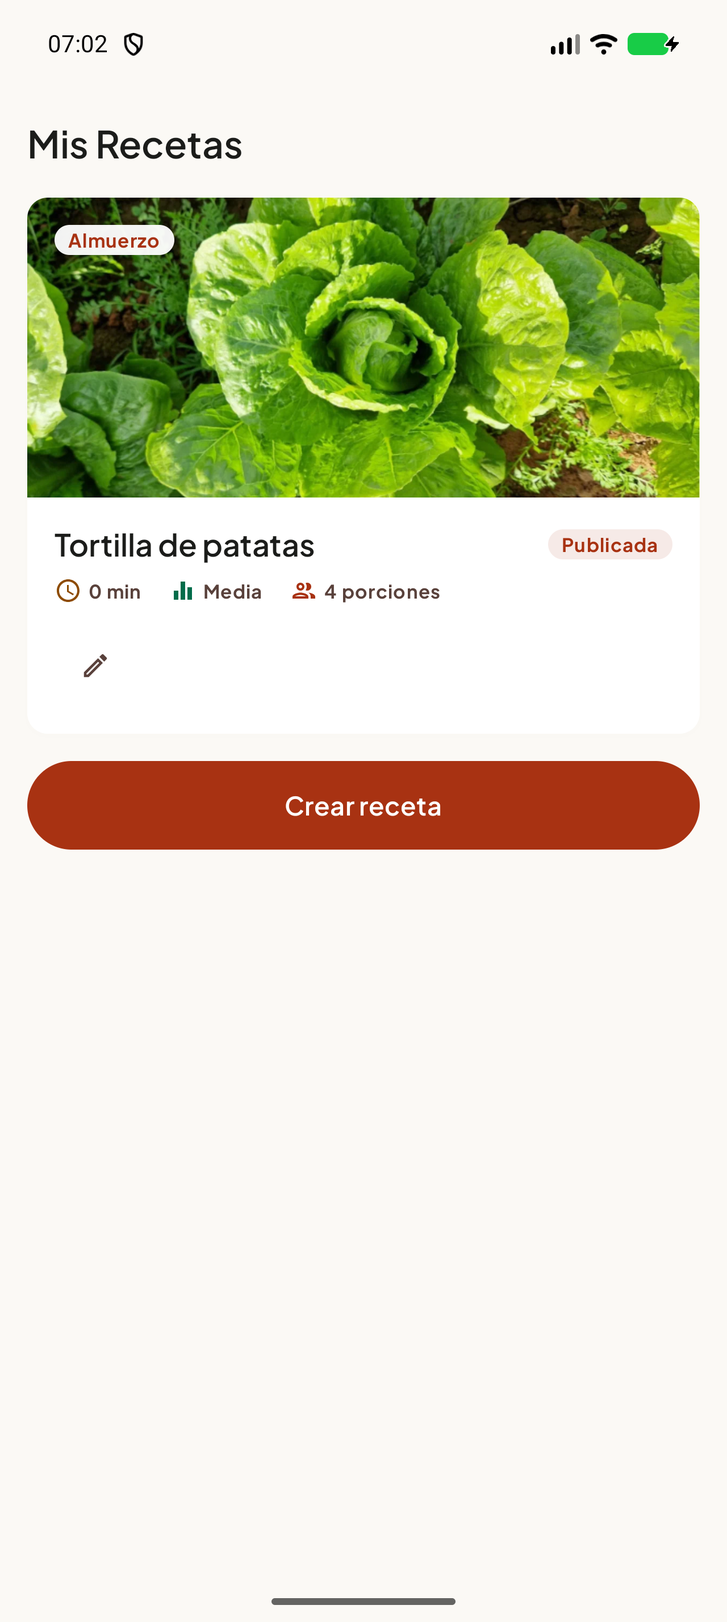
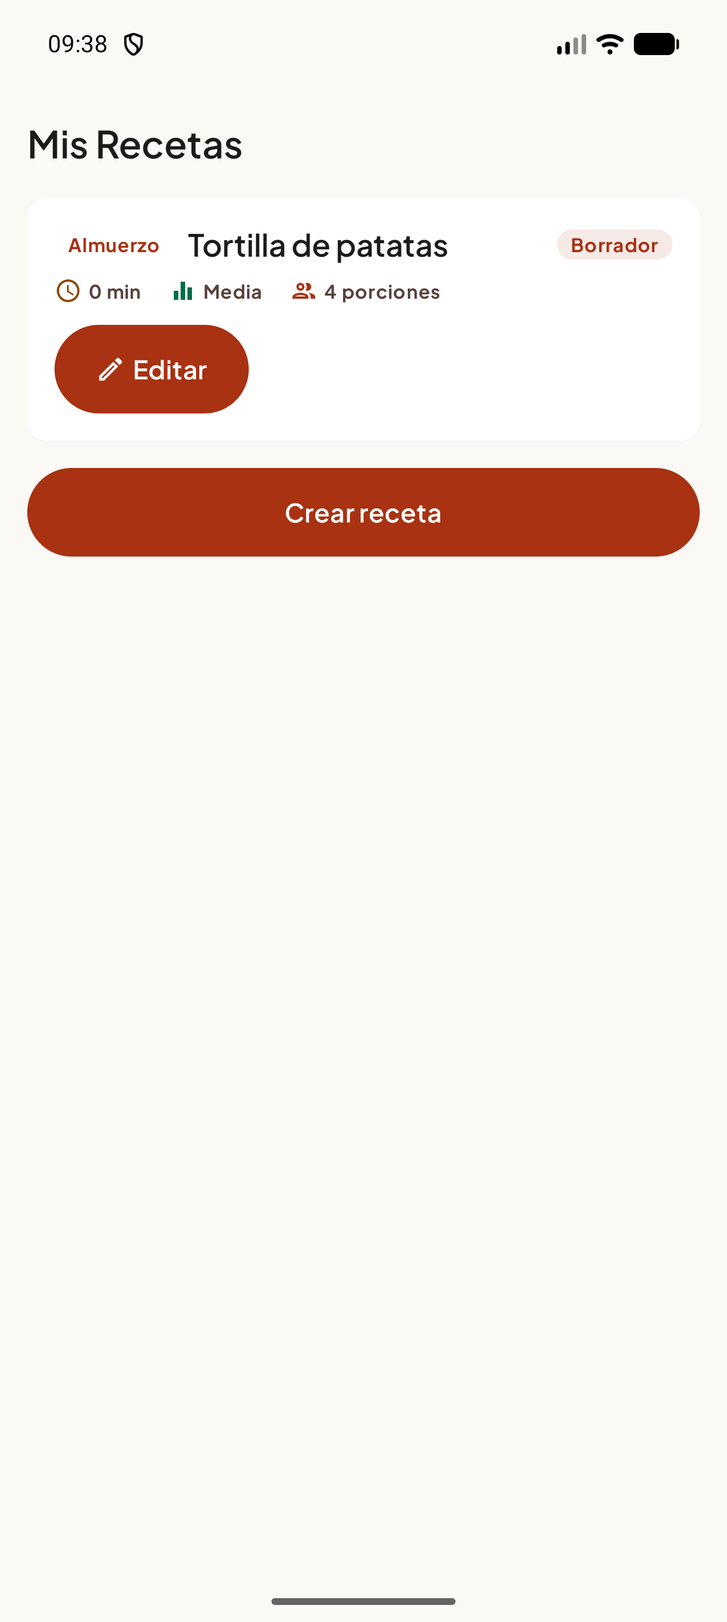
docs(editar-receta): excepcion de diseno del boton Editar (Q-editar-receta-6) y evidencia

diff --git a/docs/specs/editar-receta.md b/docs/specs/editar-receta.md
@@ -11,7 +11,7 @@ source: feature_list.json
 
 ## Contexto y objetivo
 
-Mis Recetas ya crea Recetas, pero una Receta guardada no se puede modificar: cualquier error obliga a borrarla y recrearla. Esta feature abre el formulario existente en modo edición, precargado con los datos de la Receta, y guarda los cambios sin perder su estado (Borrador o Publicada), según el ciclo de vida de `docs/domain-model.md`. El usuario pidió ajustarse visualmente a `uxdocs/`: el acceso es el icono «Editar receta» del pie de la tarjeta y la cabecera del formulario pasa a «Editar Receta», tal como los dibuja el prototipo.
+Mis Recetas ya crea Recetas, pero una Receta guardada no se puede modificar: cualquier error obliga a borrarla y recrearla. Esta feature abre el formulario existente en modo edición, precargado con los datos de la Receta, y guarda los cambios sin perder su estado (Borrador o Publicada), según el ciclo de vida de `docs/domain-model.md`. El usuario pidió ajustarse visualmente a `uxdocs/`: la cabecera del formulario pasa a «Editar Receta», tal como la dibuja el prototipo. Revisado el 2026-10-19: el acceso del pie de la tarjeta, que el prototipo dibuja como icono fantasma poco visible, pasa a botón primario destacado por excepción de diseño aprobada por el usuario (ver RF-4 y `## Clarificación`).
 
 ## Actores y permisos
 
@@ -28,7 +28,7 @@ para poder modificarla sin recrearla ni perder su estado.
 - RF-1: CUANDO el usuario pulsa «Editar receta» en la tarjeta de una Receta de Mis Recetas, EL SISTEMA abre el formulario de Receta en modo edición.
 - RF-2: EL SISTEMA precarga en el formulario el título, la historia, el momento culinario, los tiempos de preparación y cocción, la dificultad, las raciones base, las calorías, la foto, el favorito, los ingredientes y los pasos de la Receta editada.
 - RF-3: CUANDO el formulario abre en modo edición, EL SISTEMA titula la cabecera del alta «Editar Receta» con el distintivo de estado de la Receta (Borrador/Publicada), según `uxdocs/chefencasa_registrar_y_editar_receta/code.html` (cabecera) y el modal de edición de `uxdocs/chefencasa_mis_recetas_y_crud/code.html` (título).
-- RF-4: EL SISTEMA presenta «Editar receta» como un icono `edit` de 18 dp sobre un recuadro visual de 36 dp y un área táctil ≥ 48×48 dp, en el pie de acciones de la tarjeta según `uxdocs/chefencasa_mis_recetas_y_crud/code.html`.
+- RF-4: EL SISTEMA presenta «Editar receta» en el pie de acciones de la tarjeta como un botón primario relleno y compacto (fondo primario, icono `edit` de 18 dp y etiqueta visible «Editar»), de ancho al contenido, con altura ≥ 52 dp y área táctil ≥ 48×48 dp, y con nombre accesible «Editar receta». **Excepción de diseño aprobada por el usuario el 2026-10-19**: el control se destaca frente al icono fantasma `w-9 h-9` de `uxdocs/chefencasa_mis_recetas_y_crud/code.html` para que la acción se vea en el dispositivo (el prototipo es orientativo, `P16`; ver `## Clarificación` y `Q-editar-receta-6`).
 - RF-5: MIENTRAS se edita una Receta en estado Publicada, EL SISTEMA muestra en el dock una única acción primaria «Guardar cambios».
 - RF-6: CUANDO el usuario pulsa «Guardar cambios» sobre una Receta Publicada que cumple los requisitos de Publicar, EL SISTEMA guarda los cambios manteniendo el estado Publicada.
 - RF-7: MIENTRAS una Receta Publicada en edición no cumple los requisitos de Publicar (`⚠ S07`), EL SISTEMA mantiene «Guardar cambios» deshabilitado.
@@ -46,10 +46,10 @@ para poder modificarla sin recrearla ni perder su estado.
 
 ## Requisitos no funcionales
 
-- NFR-1: Interfaz en español e inglés vía `strings.xml` (`P19`); los textos de edición («Editar Receta», «Editar receta», «Guardar cambios») se afirman en ambas lenguas.
-- NFR-2: Objetivos táctiles ≥ 48×48 dp y contraste WCAG 2.1 AA; el botón primario del dock mide ≥ 52 dp de alto (`DESIGN.md`).
+- NFR-1: Interfaz en español e inglés vía `strings.xml` (`P19`); los textos de edición («Editar Receta», «Editar receta», «Editar», «Guardar cambios») se afirman en ambas lenguas.
+- NFR-2: Objetivos táctiles ≥ 48×48 dp y contraste WCAG 2.1 AA; los botones primarios —el del dock y el de «Editar receta» de la tarjeta (RF-4)— miden ≥ 52 dp de alto (`DESIGN.md`).
 - NFR-3: Android 11 (API 30) o superior, solo móvil (`P20`); el dato vive en el dispositivo (`P33`).
-- NFR-4: Los estados de edición reproducen el prototipo 1:1 (bloques, textos, iconos, controles y roles de token) por muestreo de píxeles en emulador API 30+, excluidos los controles de «Fuera de alcance»; si el prototipo contradice `DESIGN.md`, prima `DESIGN.md` en interacción y accesibilidad y el prototipo en apariencia.
+- NFR-4: Los estados de edición reproducen el prototipo 1:1 (bloques, textos, iconos, controles y roles de token) por muestreo de píxeles en emulador API 30+, excluidos los controles de «Fuera de alcance» y el botón «Editar receta» del pie de la tarjeta (excepción de diseño aprobada por el usuario, RF-4), que se verifica por rol de token y tamaño; si el prototipo contradice `DESIGN.md`, prima `DESIGN.md` en interacción y accesibilidad y el prototipo en apariencia.
 
 ## Casos límite
 
@@ -79,7 +79,7 @@ para poder modificarla sin recrearla ni perder su estado.
 | RF | Origen | Verificación | Evidencia |
 |---|---|---|---|
 | RF-1, RF-2 | `steps`: precargar el formulario | verify 1 + escenario E2E de precarga | informe E2E |
-| RF-3, RF-4 | uxdocs: cabecera y pie de la tarjeta | verify UI + uiautomator: cabecera e icono | captura |
+| RF-3, RF-4 | uxdocs: cabecera y pie de la tarjeta (RF-4 con la excepción de diseño aprobada por el usuario) | verify UI + uiautomator: cabecera y botón «Editar» | captura |
 | RF-5, RF-9, RF-11 | Q-editar-receta-1, Q-editar-receta-2 | escenario E2E: dock según estado y publicar desde edición | informe E2E |
 | RF-6, RF-10 | `steps`: guardar manteniendo estado | verify 1 (título nuevo en Mis Recetas) | informe E2E + captura |
 | RF-7, RF-8, RF-12 | Q-editar-receta-3 + `⚠ S07` | escenario E2E: deshabilitado y lista junto al dock | informe E2E |
@@ -119,7 +119,7 @@ para poder modificarla sin recrearla ni perder su estado.
 - **Navegación**: `AppRoutes.CREAR_RECETA` pasa a `"crear_receta?recipeId={recipeId}"` y Mis Recetas navega con el id de la tarjeta; al guardar, `popBackStack` y `observeRecipes` refrescan la lista (RF-1, RF-17).
 - **Dock por estado**: `ActionDock` se rama por el estado de la Receta editada — Publicada → único «Guardar cambios» habilitado solo si `canPublish`, con `PublishErrors` junto al dock (RF-5 a RF-8); Borrador → dock del alta con sus mismas reglas (RF-9 a RF-12). `FormHeader` no dibuja «Guardar» en ningún modo: el dock es el único guardado (RF-13, RF-14).
 - **Guardado**: la acción de guardado persiste con el estado original (RF-6, RF-10); «Publicar Receta» solo ejecuta la transición Borrador → Publicada (RF-11) y nada persiste si se cierra sin guardar (RF-15).
-- **Tarjeta y copy**: `RecipeCard` añade el pie del prototipo solo con «Editar receta» (icono `Icons.Outlined.Edit` de 18 dp sobre recuadro visual de 36 dp, `onSurfaceVariant`, área táctil ≥ 48 dp por NFR-2) en la posición izquierda y `RecipeList` recibe `onEditRecipe(id)` (RF-1, RF-4); «Eliminar» y «Cocinar Ahora» no se dibujan (Q-editar-receta-4). Textos de edición en `strings.xml` es/en (NFR-1).
+- **Tarjeta y copy**: `RecipeCard` añade el pie del prototipo solo con «Editar receta», en la posición izquierda y como botón primario compacto —`Button` de Material 3 con el color primario, icono `Icons.Outlined.Edit` de 18 dp + etiqueta visible «Editar», altura ≥ 52 dp por NFR-2 y nombre accesible «Editar receta»— por la excepción de diseño aprobada por el usuario (RF-4, Q-editar-receta-6); `RecipeList` recibe `onEditRecipe(id)` (RF-1, RF-4); «Eliminar» y «Cocinar Ahora» no se dibujan (Q-editar-receta-4). Textos de edición en `strings.xml` es/en (NFR-1).
 
 ## Archivos esperados
 
@@ -131,7 +131,7 @@ para poder modificarla sin recrearla ni perder su estado.
 ## Impacto visual
 
 - Fuente de diseño: `DESIGN.md` y los prototipos `uxdocs/chefencasa_registrar_y_editar_receta/code.html` (formulario, cabecera y dock) y `uxdocs/chefencasa_mis_recetas_y_crud/code.html` (pie de acciones y modal «Editar Receta»); pantallas y estados afectados: Formulario de Receta en modo edición (cabecera y dock según estado) y Mis Recetas (pie de acciones de la tarjeta).
-- Fidelidad visual (NFR-4): 1:1 con el prototipo por muestreo de píxeles (bloques, textos, iconos, controles y roles de token) en emulador API 30+, acotado a los bloques implementados (excluidos «Eliminar receta» y «Cocinar Ahora», en «Fuera de alcance»); el resto del formulario hereda sin cambios los RF de `afinar-fidelidad-visual-del-formulario`. No hace falta artefacto de diseño nuevo: los prototipos cubren ambos elementos.
+- Fidelidad visual (NFR-4): 1:1 con el prototipo por muestreo de píxeles (bloques, textos, iconos, controles y roles de token) en emulador API 30+, acotado a los bloques implementados (excluidos «Eliminar receta» y «Cocinar Ahora», en «Fuera de alcance», y el botón «Editar receta» del pie de la tarjeta, excepción de diseño aprobada por el usuario que se verifica por rol de token y tamaño); el resto del formulario hereda sin cambios los RF de `afinar-fidelidad-visual-del-formulario`. No hace falta artefacto de diseño nuevo: los prototipos cubren ambos elementos.
 
 ## Impacto en documentación duradera
 
@@ -146,13 +146,14 @@ para poder modificarla sin recrearla ni perder su estado.
 - [x] T5: cabecera «Editar Receta» con distintivo de estado y textos es/en. (cubre RF-3, NFR-1)
 - [x] T6: cierre sin guardar. (cubre RF-15)
 - [x] T7: tests E2E de edición y regresión de `crear-receta`. (cubre el plan de verificación)
+- [x] T8: botón primario compacto «Editar» en el pie de la tarjeta (excepción de diseño aprobada por el usuario), textos es/en y aserciones E2E. (cubre RF-4, NFR-1, NFR-2)
 
 ## Plan de verificación
 
 - `./lint.sh` y `./unit.sh` → exit 0; unit: requisitos de Publicar en modo edición (RF-7, RF-8, RF-12) y conservación de estado y origen (RF-6, RF-10, RF-16).
 - E2E verify 1: editar el título de una receta publicada y comprobar que Mis Recetas muestra el nuevo título (RF-6, RF-17).
-- E2E propios: precarga (RF-2), cabecera e icono (RF-3, RF-4), dock según estado (RF-5, RF-9), deshabilitado y lista en Publicada incompleta (RF-7, RF-8), guardar borrador manteniendo estado (RF-10), publicar desde edición (RF-11, RF-12), ausencia de «Guardar» de cabecera y guardado desde el dock en ambos estados (RF-13, RF-14), cierre sin guardar (RF-15), id inexistente (RF-18) y localización es/en de los textos de edición (NFR-1).
-- UI *(solo el validador)*: 2 capturas en emulador API 30+ (formulario en modo edición y tarjeta con el pie de acciones) comparadas por muestreo de píxeles acotado a los bloques implementados (NFR-4) con los prototipos y `DESIGN.md`, y medición por uiautomator (informa en px, convertidos a dp según la densidad del emulador) de área táctil ≥ 48 dp y botón del dock ≥ 52 dp (NFR-2). Regresión: `./e2e.sh` deja en verde `crear-receta` y `afinar-fidelidad-visual-del-formulario`; no se tocan `init`/`lint`/`unit`/`e2e`.
+- E2E propios: precarga (RF-2), cabecera y botón «Editar» (RF-3, RF-4), dock según estado (RF-5, RF-9), deshabilitado y lista en Publicada incompleta (RF-7, RF-8), guardar borrador manteniendo estado (RF-10), publicar desde edición (RF-11, RF-12), ausencia de «Guardar» de cabecera y guardado desde el dock en ambos estados (RF-13, RF-14), cierre sin guardar (RF-15), id inexistente (RF-18) y localización es/en de los textos de edición (NFR-1).
+- UI *(solo el validador)*: 2 capturas en emulador API 30+ (formulario en modo edición y tarjeta con el pie de acciones) comparadas por muestreo de píxeles acotado a los bloques implementados (NFR-4) con los prototipos y `DESIGN.md`, y medición por uiautomator (informa en px, convertidos a dp según la densidad del emulador) de área táctil ≥ 48 dp y de los botones primarios —dock y «Editar receta» de la tarjeta (≥ 52 dp)— (NFR-2); el botón «Editar receta» se compara por rol de token primario, no por 1:1 (RF-4). Regresión: `./e2e.sh` deja en verde `crear-receta` y `afinar-fidelidad-visual-del-formulario`; no se tocan `init`/`lint`/`unit`/`e2e`.
 
 ## Evidencia a capturar
 
@@ -210,3 +211,13 @@ Continuar: la spec queda `ready` y puede pasar a implementación; los menores 9 
 
 ### Siguiente acción
 Implementar el ajuste y re-ejecutar la validación de la feature.
+
+## Clarificación — 2026-10-19 — cambio de alcance: excepción de diseño aprobada por el usuario
+
+### Hallazgos
+
+1. [excepción de diseño, resuelta] El icono fantasma del pie de la tarjeta (`w-9 h-9`, tinta `on-surface-variant`, sin etiqueta) apenas se ve en el dispositivo; el usuario pide destacar la acción como un botón primario compacto con el lápiz y la etiqueta «Editar», al estilo de «Crear receta». Se aprueba como **excepción consciente** a la fidelidad 1:1 con `uxdocs/chefencasa_mis_recetas_y_crud/code.html` (orientativo, `P16`; mandan los tokens de `DESIGN.md`): ver RF-4, NFR-2, NFR-4, §Enfoque técnico «Tarjeta y copy», §Impacto visual, §Plan de verificación y `Q-editar-receta-6`. Alcance acotado a la apariencia del acceso de edición, sin cambios de flujo ni de requisitos funcionales; no requiere auditoría independiente por ser una decisión explícita del usuario.
+
+### Siguiente acción
+
+Implementar el ajuste (botón primario compacto con etiqueta «Editar»/«Edit» y nombre accesible «Editar receta»/«Edit recipe») y re-ejecutar la validación de la feature.

diff --git a/docs/evidence/editar-receta/informe-validacion.md b/docs/evidence/editar-receta/informe-validacion.md
@@ -1,6 +1,6 @@
 # Informe de validación — `editar-receta`
 
-- **Fecha**: 2026-10-19 · **Modo**: completa (ciclo 1) + ciclo 2 tras la retirada de «Guardar» de la cabecera.
+- **Fecha**: 2026-10-19 · **Modo**: completa (ciclo 1) + ciclo 2 tras la retirada de «Guardar» de la cabecera + ciclo 3 tras destacar el botón «Editar» (excepción de diseño, Q-editar-receta-6).
 - **Entorno real**: emulador Android `Pixel_10_Pro` (**API 37.1**, densidad 480 → 3 px/dp), locale de sistema `en-US`; app en `es-ES` por locale de aplicación (`cmd locale set-app-locales`, revertido al terminar). AVD válido (≥ API 30).
 - **APK validado**: `app/build/outputs/apk/debug/app-debug.apk` (`com.whatsforlunch.app`, `installDebug` exit 0).
 
@@ -13,7 +13,7 @@
 | `unit.ps1` (`testDebugUnitTest`) | **exit 0** | **10 tests, 0 fallos** (`RecipeValidationTest` 8 + `MisRecetasStateTest` 2) |
 | `e2e.ps1` (`connectedDebugAndroidTest`) | **exit 0** | **45 tests, 0 fallos, 0 saltados** en `Pixel_10_Pro(AVD) - 17` (3 m 34 s) |
 
-Notas de entorno (no son fallos del producto): `init.ps1` requiere `ANDROID_HOME` en este worktree porque `local.properties` trae el `sdk.dir` escapado (`C\:\\…`) y el script lo lee sin desescapar; además, mezclar stderr (`2>&1`) al invocarlo bajo PowerShell 5.1 hace que su `ErrorActionPreference=Stop` aborte en la salida de `adb shell monkey`. Ejecutado como manda el arnés (sin fusión de flujos) devuelve exit 0.
+Notas de entorno (no son fallos del producto): en el ciclo 3 se corrigió `local.properties` (`sdk.dir` sin escapar, que rompía el `Join-Path` de `init.ps1`) y el arranque pasa con `adb` en el PATH, sin `ANDROID_HOME`; no se deben fusionar los flujos al invocar el arnés bajo PowerShell 5.1.
 
 ### Regresión (misma suite instrumentada)
 
@@ -34,7 +34,7 @@ Recorrido manual con `adb` + `uiautomator` sobre el APK real, además de la suit
 | RF-1 | pulsar «Editar receta» abre el formulario en modo edición | **pasa** | manual: tap (168,1172) → cabecera «Editar Receta»; `EditarRecetaAppE2ETest` |
 | RF-2 | precarga de todos los campos, foto, favorito, ingredientes y pasos | **pasa** | manual: «Tortilla de patatas» + «Quitar foto» + «Patata/700» + «Pochar la cebolla»; `editingPreloadsRecipeFieldsAndPublishedDock` (título, historia, momento, tiempos, dificultad, raciones, calorías, foto, filas y favorito) |
 | RF-3 | cabecera «Editar Receta» + distintivo de estado | **pasa** | manual: «Editar Receta» + píldora «Publicada» (y «Editar Recipe»/«Published» en inglés) |
-| RF-4 | icono `edit` 18 dp sobre recuadro 36 dp con área ≥ 48 dp | **pasa** | `uiautomator`: nodo `Editar receta` = `[96,1100][240,1244]` → **144×144 px = 48×48 dp**; tinta del icono 40×40 px centrada (glifo 18 dp) y color `#59413B` |
+| RF-4 | botón primario compacto «Editar» (lápiz 18 dp + etiqueta) ≥ 52 dp | **pasa** | `uiautomator`: nodo `Editar receta` = `[96,572][438,728]` → **342×156 px = 114×52 dp**; relleno `#A83212`, etiqueta «Editar» en `#FFFFFF` y lápiz en tinta blanca; es/en «Editar»/«Edit»; `cardEditActionRequestsEditingWithRecipeId`, `cardEditActionIsLocalizedInEnglish`; ciclo 3 (excepción de diseño, Q-editar-receta-6) |
 | RF-5 | dock de Publicada = única acción «Guardar cambios» | **pasa** | manual + `editingPreloadsRecipeFieldsAndPublishedDock` (no existen `SAVE_DRAFT` ni `PUBLISH`) |
 | RF-6 | guardar cambios mantiene Publicada | **pasa** | manual: título editado → tarjeta «…/Publicada»; `saveChangesKeepsPublishedStatusAndOrigin` |
 | RF-7 | «Guardar cambios» deshabilitado si no cumple requisitos | **pasa** | manual: sin título → nodo dock `enabled=false`; `publishedEditingWithoutRequirementsBlocksSavingChanges` |
@@ -54,8 +54,8 @@ Recorrido manual con `adb` + `uiautomator` sobre el APK real, además de la suit
 
 | NFR | Comprobación | Resultado |
 |---|---|---|
-| NFR-1 | textos de edición en es/en | **pasa**: «Editar Receta»/«Edit Recipe», «Editar receta»/«Edit recipe», «Guardar cambios»/«Save changes» comprobados en el emulador en ambos idiomas; 82/82 claves en `values/` y `values-en/`; `editTextsAreLocalizedInEnglish`, `cardEditActionIsLocalizedInEnglish` |
-| NFR-2 | objetivos ≥ 48 dp y contraste AA | **pasa**: icono «Editar receta» 48×48 dp y botón de dock 156 px = **52 dp** (≥ 52 dp); botón primario `#A83212` con texto blanco → contraste ≈ 6,7:1 (AA) |
+| NFR-1 | textos de edición en es/en | **pasa**: «Editar Receta»/«Edit Recipe», «Editar receta»/«Edit recipe», «Editar»/«Edit», «Guardar cambios»/«Save changes» comprobados en el emulador en ambos idiomas (ciclo 3: «Edit»/«Edit recipe» con la app en `en-US`); 82/82 claves en `values/` y `values-en/`; `editTextsAreLocalizedInEnglish`, `cardEditActionIsLocalizedInEnglish` |
+| NFR-2 | objetivos ≥ 48 dp y contraste AA | **pasa**: botón «Editar receta» de la tarjeta **342×156 px = 114×52 dp** y botón del dock = **52 dp** (≥ 52 dp); botón primario `#A83212` con texto blanco (`#FFFFFF`, muestreado) → contraste ≈ 6,7:1 (AA) |
 | NFR-3 | API 30+ | **pasa**: ejecutado en API 37.1 (y la suite corre en el mismo AVD) |
 | NFR-4 | fidelidad 1:1 por muestreo de píxeles | **pasa**: ver §3 |
 
@@ -67,9 +67,7 @@ Prototipos: `uxdocs/chefencasa_mis_recetas_y_crud/code.html` (pie de la tarjeta)
 |---|---|---|---|
 | `article.recipe-card` | fondo `bg-surface-container-lowest` | `#FFFFFF` en (640,950) | igual |
 | `body.bg-surface` | fondo de pantalla | `#FBF9F5` en (640,1330) | igual |
-| `button[aria-label="Editar receta"]` `w-9 h-9 rounded-lg` | recuadro 36 px + área táctil ≥ 48 px (`NFR-2`) | nodo 144×144 px = **48×48 dp** (recuadro 36 dp en el código), clickable `[96,1100][240,1244]` | igual (RF-4 declara la precedencia `DESIGN.md`) |
-| `span.material-symbols-outlined.text-\[18px\]` `edit` | icono `edit` 18 px centrado | icono `Icons.Outlined.Edit` a 18 dp; tinta 40×40 px centrada en el recuadro | igual |
-| `text-on-surface-variant` | color del icono | `#59413B` (muestreado sobre la tinta) | igual |
+| `button[aria-label="Editar receta"]` `w-9 h-9 rounded-lg` (icono fantasma `text-on-surface-variant`) | acción destacada del pie de la tarjeta | botón primario compacto: relleno `#A83212`, etiqueta «Editar» en `#FFFFFF` y lápiz en tinta blanca; nodo **342×156 px = 114×52 dp** | **desviación declarada** (excepción de diseño aprobada por el usuario, RF-4/Q-editar-receta-6; verificado por rol de token y tamaño) |
 | `span` píldora de estado (`bg-primary/10 text-primary rounded-full`) | fondo primary @10 % + texto primary | píldora «Publicada» `#F2E5DE` sobre `#FBF9F5` (= primary 10 % exacto) y `#F6EAE7` sobre blanco | igual |
 | `div.sticky.bottom-4.bg-surface-container-lowest/95` (dock) | superficie del dock | `#FFFFFF` en (640,2640) | igual |
 | dock Publicada (extensión declarada en RF-5) | acción primaria `bg-primary text-on-primary` ≥ 52 px | «Guardar cambios» `#A83212`, alto 156 px = **52 dp** | igual (extensión declarada) |
@@ -77,7 +75,7 @@ Prototipos: `uxdocs/chefencasa_mis_recetas_y_crud/code.html` (pie de la tarjeta)
 | botón «Guardar» (cabecera) | primario habilitado / deshabilitado distinguible | **no se dibuja** (Q-editar-receta-5): el prototipo lo muestra, desviación declarada y aceptada por el usuario | desviación declarada |
 | «Guardar cambios» deshabilitado (`RF-7`) | estado deshabilitado visible y distinguible | `#E4E2DE` (`surface-container-highest`) frente a `#A83212` habilitado | igual |
 
-Atributos comparados: **11**. Desviaciones declaradas aceptadas: 4 (área táctil 48 dp frente a los 36 px del prototipo —RF-4/NFR-2; dock de Publicada con «Guardar cambios» —RF-5; título «Editar Receta» —RF-3, tomado del modal del prototipo de Mis Recetas; botón «Guardar» de la cabecera omitido —Q-editar-receta-5). «Eliminar receta» y «Cocinar Ahora» quedan excluidos del muestreo por «Fuera de alcance» (Q-editar-receta-4). **Divergencias abiertas: 0.**
+Atributos comparados: **9** (el control «Editar receta» se verifica como excepción declarada, por rol de token y tamaño, no atributo a atributo). Desviaciones declaradas aceptadas: 4 (botón «Editar receta» destacado frente al icono fantasma del prototipo —excepción de diseño aprobada por el usuario, RF-4/Q-editar-receta-6; dock de Publicada con «Guardar cambios» —RF-5; título «Editar Receta» —RF-3, tomado del modal del prototipo de Mis Recetas; botón «Guardar» de la cabecera omitido —Q-editar-receta-5). «Eliminar receta» y «Cocinar Ahora» quedan excluidos del muestreo por «Fuera de alcance» (Q-editar-receta-4). **Divergencias abiertas: 0.**
 
 ## 4. Alcance
 
@@ -86,7 +84,7 @@ Atributos comparados: **11**. Desviaciones declaradas aceptadas: 4 (área tácti
 ## 5. Evidencia
 
 - `docs/evidence/editar-receta/informe-validacion.md` (este informe).
-- `docs/evidence/editar-receta/mis-recetas-accion-editar.png` — Mis Recetas (es) con la tarjeta Publicada y su pie «Editar receta».
+- `docs/evidence/editar-receta/mis-recetas-accion-editar.png` — Mis Recetas (es) con una tarjeta y su botón primario «Editar» (recapturada en el ciclo 3).
 - `docs/evidence/editar-receta/formulario-editar-receta.png` — formulario en modo edición (es): cabecera «Editar Receta»/«Borrador» sin «Guardar», datos precargados y dock del alta («Guardar Borrador»/«Publicar Receta»).
 
 Total: 3 artefactos (≤ 4), solo de esta feature.
@@ -103,3 +101,12 @@ Total: 3 artefactos (≤ 4), solo de esta feature.
 - **Manual (adb + uiautomator)**: en alta y en edición la cabecera solo muestra «Volver», título, distintivo y «Paso a paso con IA»; `uiautomator` no encuentra ningún nodo «Guardar» fuera del dock. Guardado de Borrador desde el dock verificado de extremo a extremo (tarjeta «Tortilla de patatas»/«Borrador» en Mis Recetas).
 - **Evidencia actualizada**: `formulario-editar-receta.png` recapturada (cabecera sin «Guardar», dock del alta).
 - **Veredicto del ciclo 2**: `validated`.
+
+### Ciclo 3 (2026-10-19) — botón «Editar» destacado (excepción de diseño, Q-editar-receta-6)
+
+- **Cambio pedido por el usuario**: el icono fantasma del pie de la tarjeta apenas se veía en el dispositivo; se pide un botón más vistoso, con el lápiz y la etiqueta «Editar», relleno como «Crear receta». Se documenta como **excepción de diseño** a la fidelidad 1:1 del prototipo (`P16`, orientativo; mandan los tokens de `DESIGN.md`): RF-4, NFR-2 y NFR-4 revisados, nueva fila `Q-editar-receta-6` y entrada de Clarificación en la spec.
+- **Alcance**: `MisRecetasScreen.kt` (`EditRecipeButton` pasa a `Button` primario compacto: lápiz 18 dp + «Editar», altura ≥ 52 dp, nombre accesible «Editar receta»), `strings.xml` es/en (`mis_recetas_action_edit_short` = «Editar»/«Edit»), `EditarRecetaE2ETest` (aserciones de la etiqueta visible en es/en) y `docs/specs/editar-receta.md` + `docs/risks-and-open-questions.md`. Sin cambios de flujo ni de otros comportamientos.
+- **Harness**: `init` exit 0; `lint` exit 0 (0 errores, 28 warnings); `unit` exit 0 (10 tests, 0 fallos); `e2e` exit 0 (**44 tests, 0 fallos, 0 saltados**) en `Pixel_10_Pro(AVD) - 17`, con la regresión de `crear-receta` y `afinar-fidelidad-visual-del-formulario`.
+- **Manual (adb + uiautomator)**: botón medido **342×156 px = 114×52 dp** (≥ 52 dp), relleno `#A83212` y etiqueta «Editar» con tinta blanca (`#FFFFFF`) muestreados en la captura, lápiz en tinta blanca; en inglés «Edit»/«Edit recipe»; pulsarlo abre «Editar Receta» con el título precargado y el dock del Borrador (RF-1, RF-9).
+- **Evidencia actualizada**: `mis-recetas-accion-editar.png` recapturada (tarjeta con el botón nuevo).
+- **Veredicto del ciclo 3**: `validated`.

diff --git a/PROGRESS.md b/PROGRESS.md
@@ -8,7 +8,7 @@ Solo lo comprobado, no lo que se cree.
 - Funcionalidades `validated`: 4 — `arrancar-app-en-mis-recetas`, `crear-receta`, `afinar-fidelidad-visual-del-formulario` y `editar-receta` (4 de 25)
 - Funcionalidades `passing`: ninguna
 - Funcionalidades `in_progress`: ninguna
-- `editar-receta` **validada** (sesión 22, ciclo 1) y **revalidada** (sesión 23, ciclo 2) tras retirar «Guardar» de la cabecera: harness en verde medido —`lint` exit 0 (0 errores), `unit` exit 0 (10 tests) y `e2e` exit 0 (**44 tests, 0 fallos**, con la regresión de `crear-receta` y `afinar-fidelidad-visual-del-formulario`)—; los 18 RF y los 4 NFR pasan su verificación en el emulador (`Pixel_10_Pro`, API 37.1, 480 dpi, app en `es-ES`): la cabecera ya no dibuja «Guardar» en ningún modo (RF-13/RF-14), el dock es el único guardado, «Guardar Borrador»/«Guardar cambios» mantienen el estado, deshabilitado + lista de requisitos, cierre sin guardar y ambos idiomas. **Sin bugs.** Evidencia: `docs/evidence/editar-receta/` (informe con ciclo 2 + 2 capturas es, `formulario-editar-receta.png` recapturada).
+- `editar-receta` **validada** (sesión 22, ciclo 1), **revalidada** (sesión 23, ciclo 2, retirada de «Guardar» de la cabecera) y **revalidada** (sesión 24, ciclo 3, botón «Editar» destacado): harness en verde medido —`init` exit 0, `lint` exit 0 (0 errores, 28 warnings), `unit` exit 0 (10 tests) y `e2e` exit 0 (**44 tests, 0 fallos**, con la regresión de `crear-receta` y `afinar-fidelidad-visual-del-formulario`)—; los 18 RF y los 4 NFR pasan su verificación en el emulador (`Pixel_10_Pro`, API 37.1, 480 dpi, app en `es-ES` y comprobación en `en-US`): la cabecera no dibuja «Guardar» en ningún modo (RF-13/RF-14), el dock es el único guardado, «Guardar Borrador»/«Guardar cambios» mantienen el estado, deshabilitado + lista de requisitos, cierre sin guardar y ambos idiomas. Ciclo 3: el pie de la tarjeta pasa a botón primario compacto «Editar» (lápiz + etiqueta, 114×52 dp, `#A83212` con texto blanco) como **excepción de diseño aprobada por el usuario** (Q-editar-receta-6; RF-4/NFR-4 revisados). **Sin bugs.** Evidencia: `docs/evidence/editar-receta/` (informe con ciclos 2 y 3 + 2 capturas es, `mis-recetas-accion-editar.png` recapturada).
 - `afinar-fidelidad-visual-del-formulario` **validada** (sesión 19, ciclo 3; RF-3 y RF-21 revisados en la sesión 23 por Q-editar-receta-5, con regresión `lint`/`unit`/`e2e` en verde): harness completo en verde medido —`init` exit 0 a la primera, `lint` exit 0, `unit` exit 0 (10 tests), `e2e` exit 0 (29 tests, incluida la regresión de `crear-receta`)—; recorrido manual (adb + uiautomator) con 22/22 RF verificadas, NFR-1 (79/79 claves es/en) y NFR-2 (dock 52,2 dp) cumplidos, y fidelidad 1:1 por muestreo de píxeles sin divergencias bloqueantes. **B-2 confirmado corregido**: el «Guardar Borrador» del dock mide `#EFEEEA`/`#59413B` (rol del prototipo `surface-container`/`on-surface-variant`; también en su estado deshabilitado `#E4E2DE`/`#59413B`) y la observación 1 (icono `Drafts`) queda resuelta. Evidencia: `docs/evidence/afinar-fidelidad-visual-del-formulario/` (informe del ciclo 3 + 2 capturas) y checkboxes de la spec marcados salvo T6. Cambios mergeados en `develop` (PR #3, `9657df5`); el worktree ya no existe.
 - `arrancar-app-en-mis-recetas`: B-1, B-2 y B-3 resueltos y verificados; los 11 RF pasan su verificación (e2e + `unit` + `uiautomator` + capturas es/en). Evidencia en `docs/evidence/arrancar-app-en-mis-recetas/`
 - `crear-receta` **validada** (sesión 12, ciclo 2): los 26 RF pasan su verificación (22 E2E + 10 unit + comprobaciones manuales con `adb`/`uiautomator`), incluidos los manuales RF-19 (el selector del sistema abre, se elige una imagen de MediaStore y el formulario pasa a vista previa «Quitar foto») y RF-23 (`pm revoke CAMERA` → diálogo → «Don't allow» → aviso «Permiso de cámara denegado…» con el formulario utilizable); RF-18 reconfirmado con `force-stop` + relanzado (la tarjeta y su miniatura persisten en Room). B-1 y B-2 de la 1ª validación resueltos: el fix de B-1 inyecta el locale en `CrearRecetaE2ETest.launchForm` (`createConfigurationContext` + `CompositionLocalProvider(LocalContext …)`, patrón de `MisRecetasLocalizationE2ETest`) y las aserciones leen la cadena del recurso; B-2 añade `editAndRemoveStepRows` (RF-10/RF-11), `generatedPhotoCanBeAcceptedOrDiscarded` (RF-20) y `generationFailureShowsNoticeAndKeepsManualOptions` (RF-22). Solo cambiaron tests; el producto quedó intacto respecto a la 1ª validación. Evidencia: `docs/evidence/crear-receta/informe-validacion.md` + 2 capturas es (API 37). Fidelidad: jerarquía y tamaños conformes; 2 divergencias de rol de token (tarjetas/inputs/chips en `surfaceContainerHighest` y chip seleccionado en `secondaryContainer`) consideradas no bloqueantes (prototipo «orientativo»; colores son tokens de la paleta)
@@ -16,7 +16,7 @@ Solo lo comprobado, no lo que se cree.
 
 ## Siguiente paso
 1. Redactar y auditar la spec de la funcionalidad `sincronizar-spec-de-crear-receta` (`not_started`), que recoge el pendiente documentado de T6: actualizar `docs/specs/crear-receta.md` (RF-15/RF-16, Casos límite, Plan de verificación y Trazabilidad) con un agente/sesión con permiso sobre `docs/specs/**` y marcar el checkbox T6 de `afinar-fidelidad-visual-del-formulario`.
-2. `editar-receta` queda **cerrada** (`validated`, sesión 22 ciclo 1 y sesión 23 ciclo 2). El cambio de alcance de la sesión 23 (retirada de «Guardar» de la cabecera en todos los modos, Q-editar-receta-5) está implementado, probado y documentado en `docs/specs/editar-receta.md` y `docs/specs/afinar-fidelidad-visual-del-formulario.md`; no hay trabajo pendiente de esta feature.
+2. `editar-receta` queda **cerrada** (`validated`, sesiones 22-24). Los cambios de alcance de la sesión 23 (retirada de «Guardar» de la cabecera, Q-editar-receta-5) y de la sesión 24 (botón «Editar» destacado como excepción de diseño, Q-editar-receta-6) están implementados, probados y documentados en `docs/specs/editar-receta.md`; los commits nuevos están en la rama local `feature/editar-receta` (PR #4 abierto, sin push en esta sesión).
 3. Resuelto: los cambios del worktree de `afinar-fidelidad-visual-del-formulario` ya están mergeados en `develop` (PR #3, `9657df5`) y el worktree no existe.
 Después, elegir la siguiente funcionalidad `ready` o `not_started` cuyas dependencias estén `validated` (según `feature_list.json`) y seguir el flujo (spec → auditoría → implementación → validación). Recordar el escenario de checkout fresco: `init` regenera `local.properties` sin escapar (`lint.xml` ya lo excluye de `PropertyEscape`). Ojo con `./e2e.sh`: desinstala la app al terminar (`connectedAndroidTest`); reinstalar con `./gradlew installDebug` antes de cualquier comprobación manual con `adb`.
 
@@ -27,6 +27,7 @@ El detalle está en `docs/risks-and-open-questions.md`. Afectan a la implementac
 - S06 queda confirmado con el scaffold real (Q-arrancar-app-en-mis-recetas-1).
 - `afinar-fidelidad-visual-del-formulario`: B-1 y B-2 **cerrados** en la validación ciclo 3 (sesión 19): compilación y arnés confirmados (`init`/`lint`/`unit`/`e2e` en verde; 10 unit + 29 E2E sin fallos) y el «Guardar Borrador» del dock verifica `#EFEEEA`/`#59413B` por muestreo de píxeles (NFR-4 cumplido). La dependencia `material-icons-extended` (BOM, sin versión propia) resuelve para todos los iconos usados. Quedan 4 observaciones no bloqueantes de acabado (capitalización del título, «Volver» texto vs `close`, fila de Ingrediente segmentada vs tira, color del badge por momento) documentadas en el informe. La spec de `crear-receta` queda desincronizada con el producto (RF-15/RF-16 sin actualizar) hasta que un agente con permiso sobre `docs/specs/**` recoja ese pendiente documentado.
 - Nota de entorno: el build fija `org.gradle.java.home` a un JDK 17 (`gradle.properties`, con la ruta escapada para `lint`: `C\:/...`) porque AGP 8.13.2 no arranca con el JBR de Android Studio (JDK 25), que es el que seleccionan los scripts del harness cuando `JAVA_HOME` no está definido.
+- Nota de entorno (sesión 24): `local.properties` tenía el `sdk.dir` escapado (`C\:\\...`) y `init.ps1` fallaba al resolver `aapt2` (`Join-Path` con `C\:`); corregido localmente a `C:/...` (fichero gitignored, sin secretos versionados). `init.ps1`/`e2e.ps1` requieren `adb` en el PATH (`%LOCALAPPDATA%\Android\Sdk\platform-tools`); el JBR de Android Studio está en `C:\Program Files\Android\Android Studio\jbr`.
 - Nota de lint: la regla `PropertyEscape` ignora `local.properties` (generado por `init.ps1`, harness intocable, sin escapar el `:` de la unidad) mediante `lint.xml` en la raíz, referenciado desde `app/build.gradle.kts`.
 
 ## Historial

diff --git a/docs/progress-history.md b/docs/progress-history.md
@@ -225,3 +225,12 @@ Entradas de sesión en orden cronológico (solo se añaden, nunca se borran). No
 - Specs: `editar-receta` RF-13/RF-14 reescritos (sin «Guardar» de cabecera en ningún modo; el dock es el único guardado) con casos límite, enfoque técnico, trazabilidad y plan de verificación alineados; `afinar-fidelidad-visual-del-formulario` RF-3 y RF-21 revisados, caso límite, trazabilidad, plan y registro de iteraciones actualizados. Nueva fila Q-editar-receta-5 en `docs/risks-and-open-questions.md`.
 - Verificación en el emulador `Pixel_10_Pro` (API 37.1): `lint` exit 0 (0 errores), `unit` exit 0 (10 tests) y `e2e` exit 0 (**44 tests, 0 fallos, 0 saltados**), con la regresión de `crear-receta` y `afinar-fidelidad-visual-del-formulario`. Manual con `adb` + `uiautomator`: la cabecera del alta y de la edición no contiene ningún nodo «Guardar»; el guardado desde el dock crea el Borrador («Tortilla de patatas» visible en Mis Recetas). Evidencia: `docs/evidence/editar-receta/formulario-editar-receta.png` recapturada y ciclo 2 añadido a los informes de ambas features.
 - `feature_list.json`: `editar-receta` se movió a `in_progress` durante el trabajo y volvió a `validated` al cerrar (único campo tocado). `PROGRESS.md` actualizado (estado verificado y siguiente paso).
+
+### Sesión 24: botón «Editar» destacado en la tarjeta (Q-editar-receta-6) → `editar-receta` revalidada
+- El usuario pidió que la acción de editar de la tarjeta se viera mejor: el icono fantasma del pie (`w-9 h-9`, tinta `on-surface-variant`) apenas se veía en el dispositivo. Decisión: destacarla como botón primario compacto, con el lápiz y la etiqueta «Editar», relleno como «Crear receta», documentado como **excepción de diseño aprobada por el usuario** a la fidelidad 1:1 del prototipo (orientativo, `P16`; mandan los tokens de `DESIGN.md`).
+- Código: `EditRecipeButton` de `MisRecetasScreen.kt` pasa de `Box` clicable con icono fantasma a `Button` de Material 3 (color primario, icono `Icons.Outlined.Edit` de 18 dp + etiqueta visible, altura ≥ 52 dp, ancho al contenido, mismo `testTag` y nombre accesible «Editar receta»); nuevo string `mis_recetas_action_edit_short` («Editar»/«Edit») en `values/` y `values-en/`; imports `clickable` y `clip` retirados.
+- Tests: `EditarRecetaE2ETest` añade aserciones de la etiqueta visible en es («Editar») y en («Edit»), conservando las del nombre accesible. Suite sin cambios de número: 44 tests.
+- Specs: `editar-receta` RF-4 reescrito (botón primario compacto, excepción declarada), NFR-2/NFR-4, contexto, enfoque técnico «Tarjeta y copy», impacto visual, plan de verificación, trazabilidad y tarea T8 alineados; entrada de Clarificación nueva; fila `Q-editar-receta-6` en `docs/risks-and-open-questions.md`.
+- Verificación en el emulador `Pixel_10_Pro` (API 37.1, 480 dpi): `init` exit 0 (la primera pasada falló por el `local.properties` escapado, corregido; ver nota de entorno) · `lint` exit 0 (0 errores, 28 warnings) · `unit` exit 0 (10 tests) · `e2e` exit 0 (**44 tests, 0 fallos, 0 saltados**), con la regresión de `crear-receta` y `afinar-fidelidad-visual-del-formulario`. Manual (adb + uiautomator): botón medido **342×156 px = 114×52 dp** con relleno `#A83212` y etiqueta/lápiz en blanco `#FFFFFF`; en inglés «Edit»/«Edit recipe»; pulsarlo abre «Editar Receta» precargado con el dock del Borrador (RF-1). Evidencia: `mis-recetas-accion-editar.png` recapturada y ciclo 3 añadido al informe.
+- Entorno: `local.properties` tenía el `sdk.dir` escapado (`C\:\\...`) y `init.ps1` fallaba al resolver `aapt2` (`Join-Path`); corregido localmente a `C:/...` (gitignored). `adb` en el PATH desde `%LOCALAPPDATA%\Android\Sdk\platform-tools`; JBR en `C:\Program Files\Android\Android Studio\jbr`.
+- `feature_list.json`: `editar-receta` pasó por `in_progress` y volvió a `validated` al cerrar (único campo tocado, sin diff neto). Commits en la rama local `feature/editar-receta` (PR #4 abierto, sin push en esta sesión). `PROGRESS.md` actualizado.

diff --git a/docs/risks-and-open-questions.md b/docs/risks-and-open-questions.md
@@ -33,6 +33,7 @@ Ninguna.
 | Q-editar-receta-3 | Si al editar una Publicada deja de cumplir `⚠ S07`, ¿qué pasa al guardar los cambios? | `docs/specs/editar-receta.md` | sí | resuelta (se bloquea el guardado: «Guardar cambios» deshabilitado, lista de requisitos junto al dock y nada se guarda; RF-7) |
 | Q-editar-receta-4 | El pie de la tarjeta dibuja «Editar», «Eliminar» y «Cocinar Ahora»: ¿qué toca esta feature? | `docs/specs/editar-receta.md` | no | resuelta (solo «Editar receta»; «Eliminar» es `eliminar-receta` y «Cocinar Ahora» de otras features; RF-4) |
 | Q-editar-receta-5 | El «Guardar» de la cabecera es redundante (mismo guardado y mismo habilitado que el dock): ¿se mantiene? | `docs/specs/editar-receta.md`, `docs/specs/afinar-fidelidad-visual-del-formulario.md` | no | resuelta (se elimina de la cabecera en todos los modos; el guardado queda solo en el dock; RF-13/RF-14 y RF-3/RF-21) |
+| Q-editar-receta-6 | El icono «Editar receta» del pie de la tarjeta apenas se ve en el dispositivo: ¿se destaca? | `docs/specs/editar-receta.md` | no | resuelta (excepción de diseño aprobada por el usuario el 2026-10-19: botón primario compacto con lápiz y etiqueta «Editar» al estilo de «Crear receta», nombre accesible «Editar receta»; RF-4) |
 
 ## Supuestos
 
